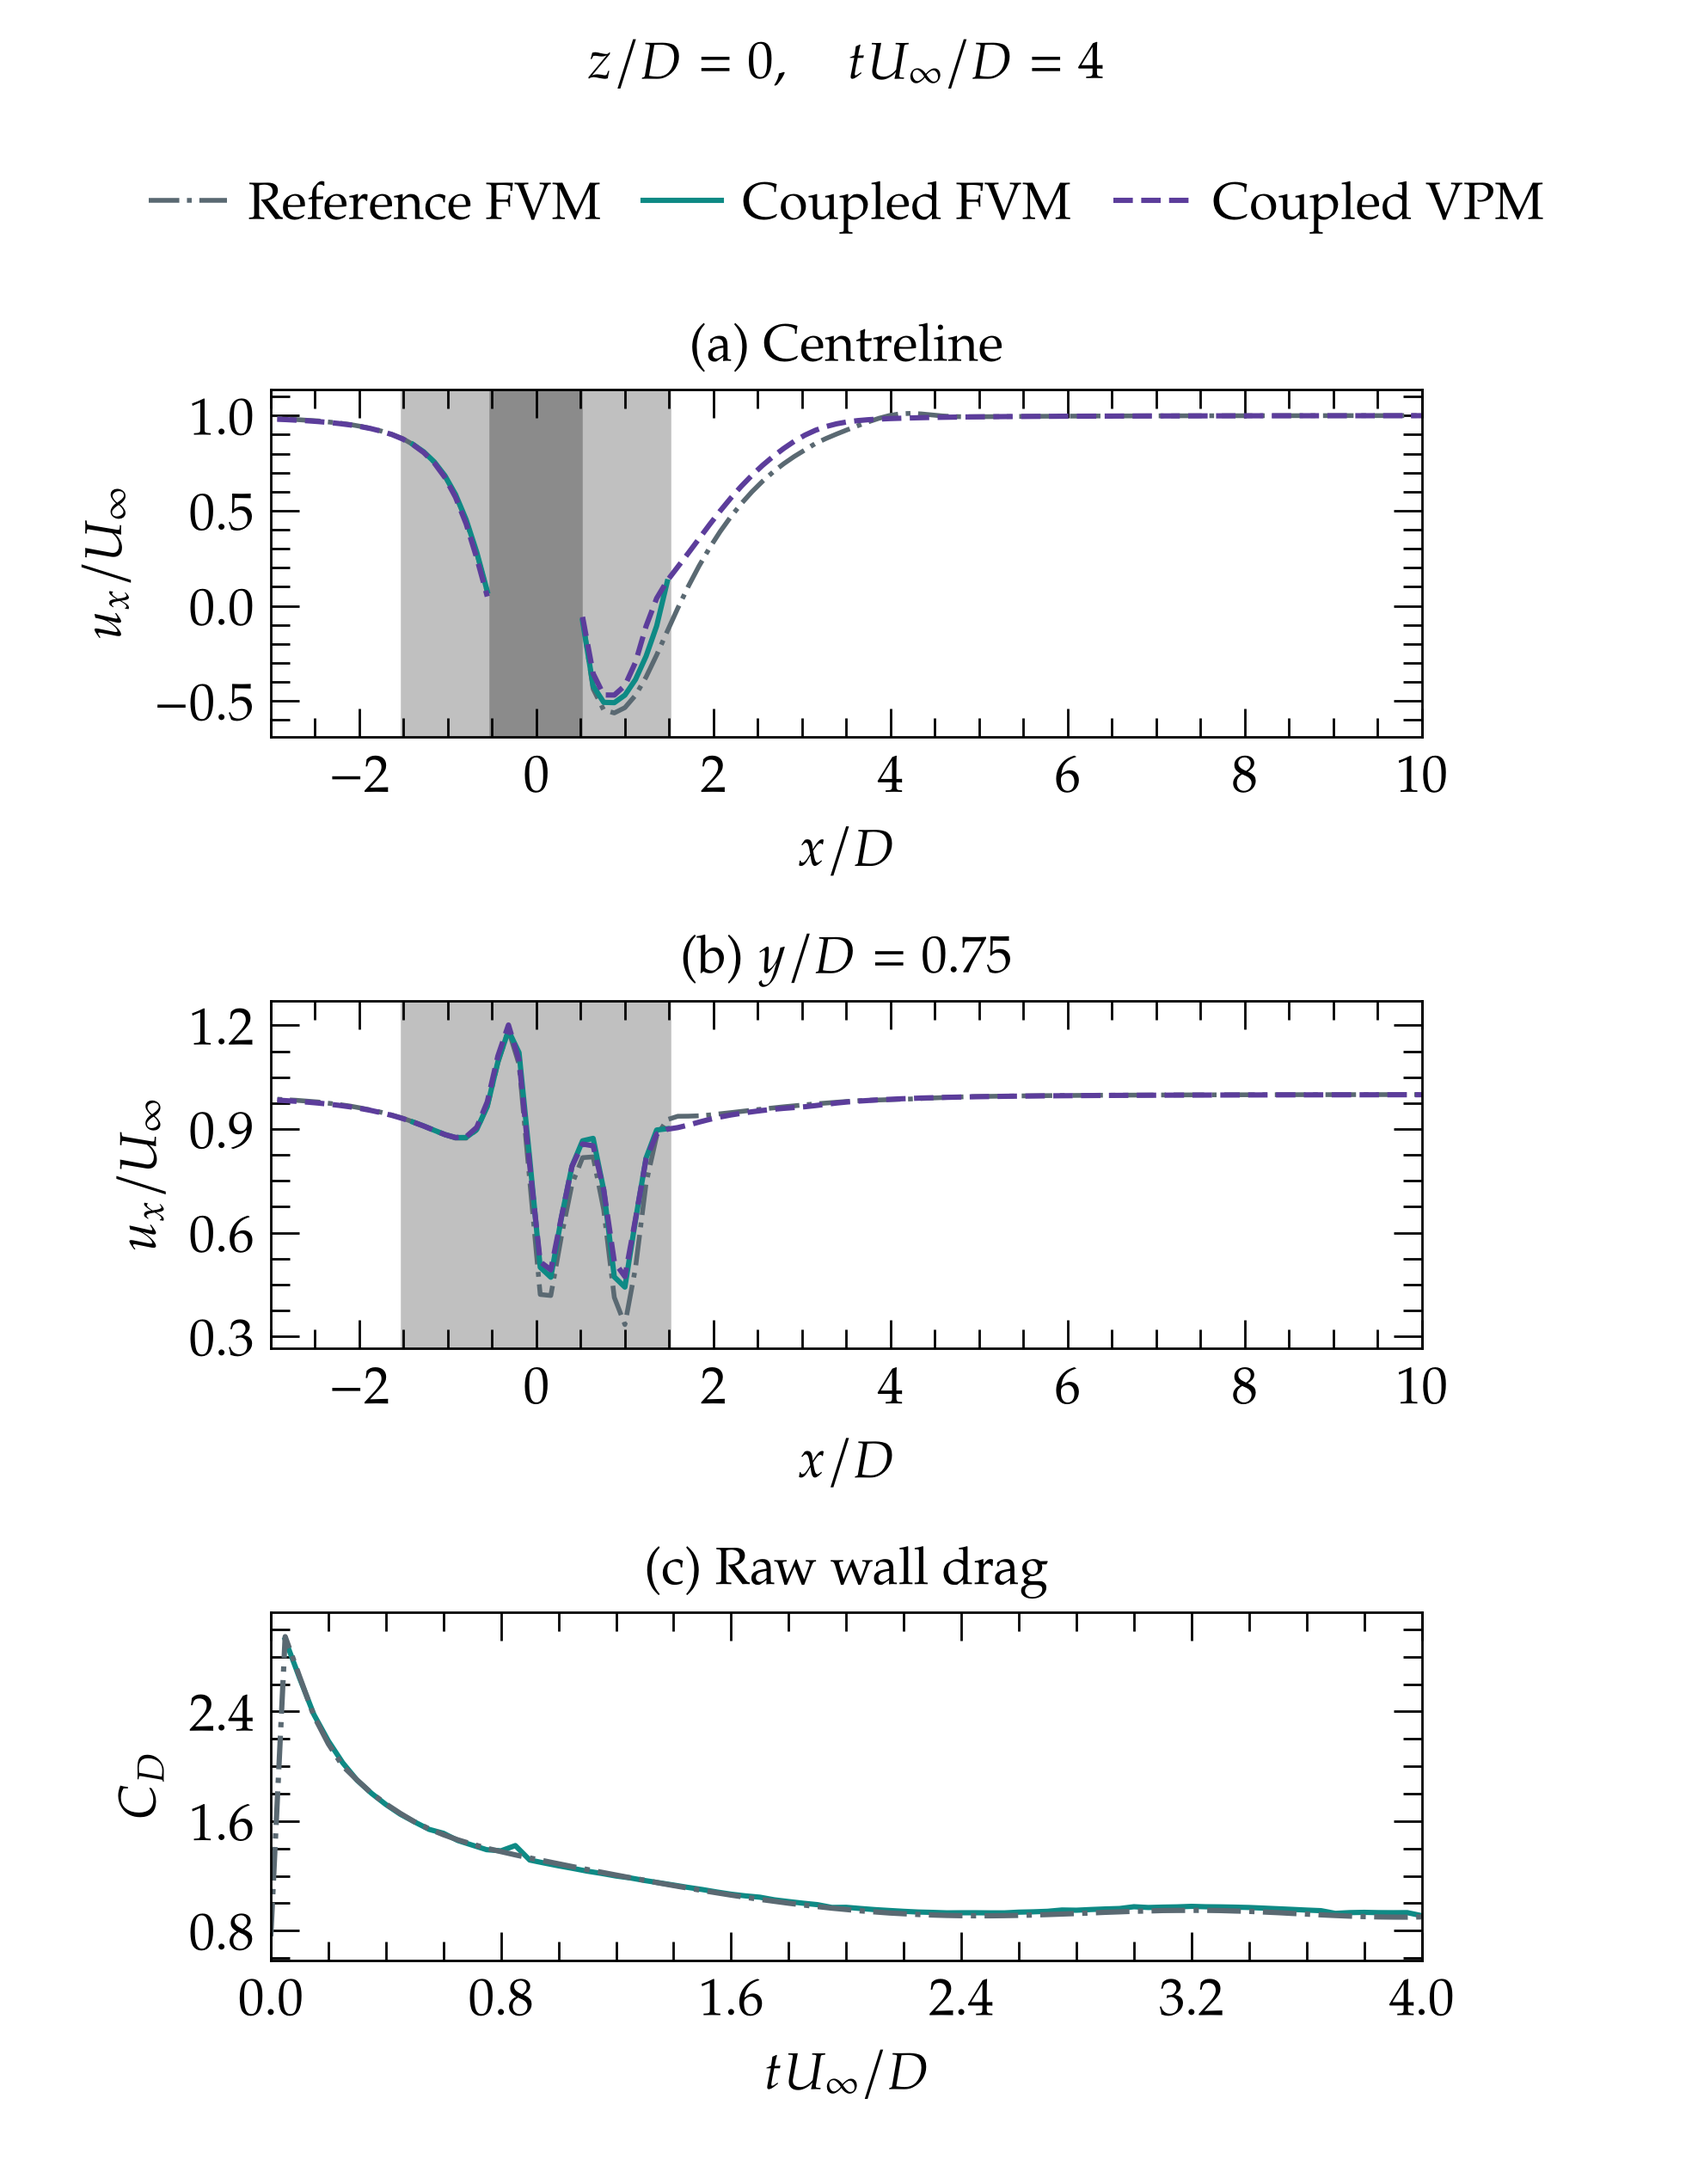
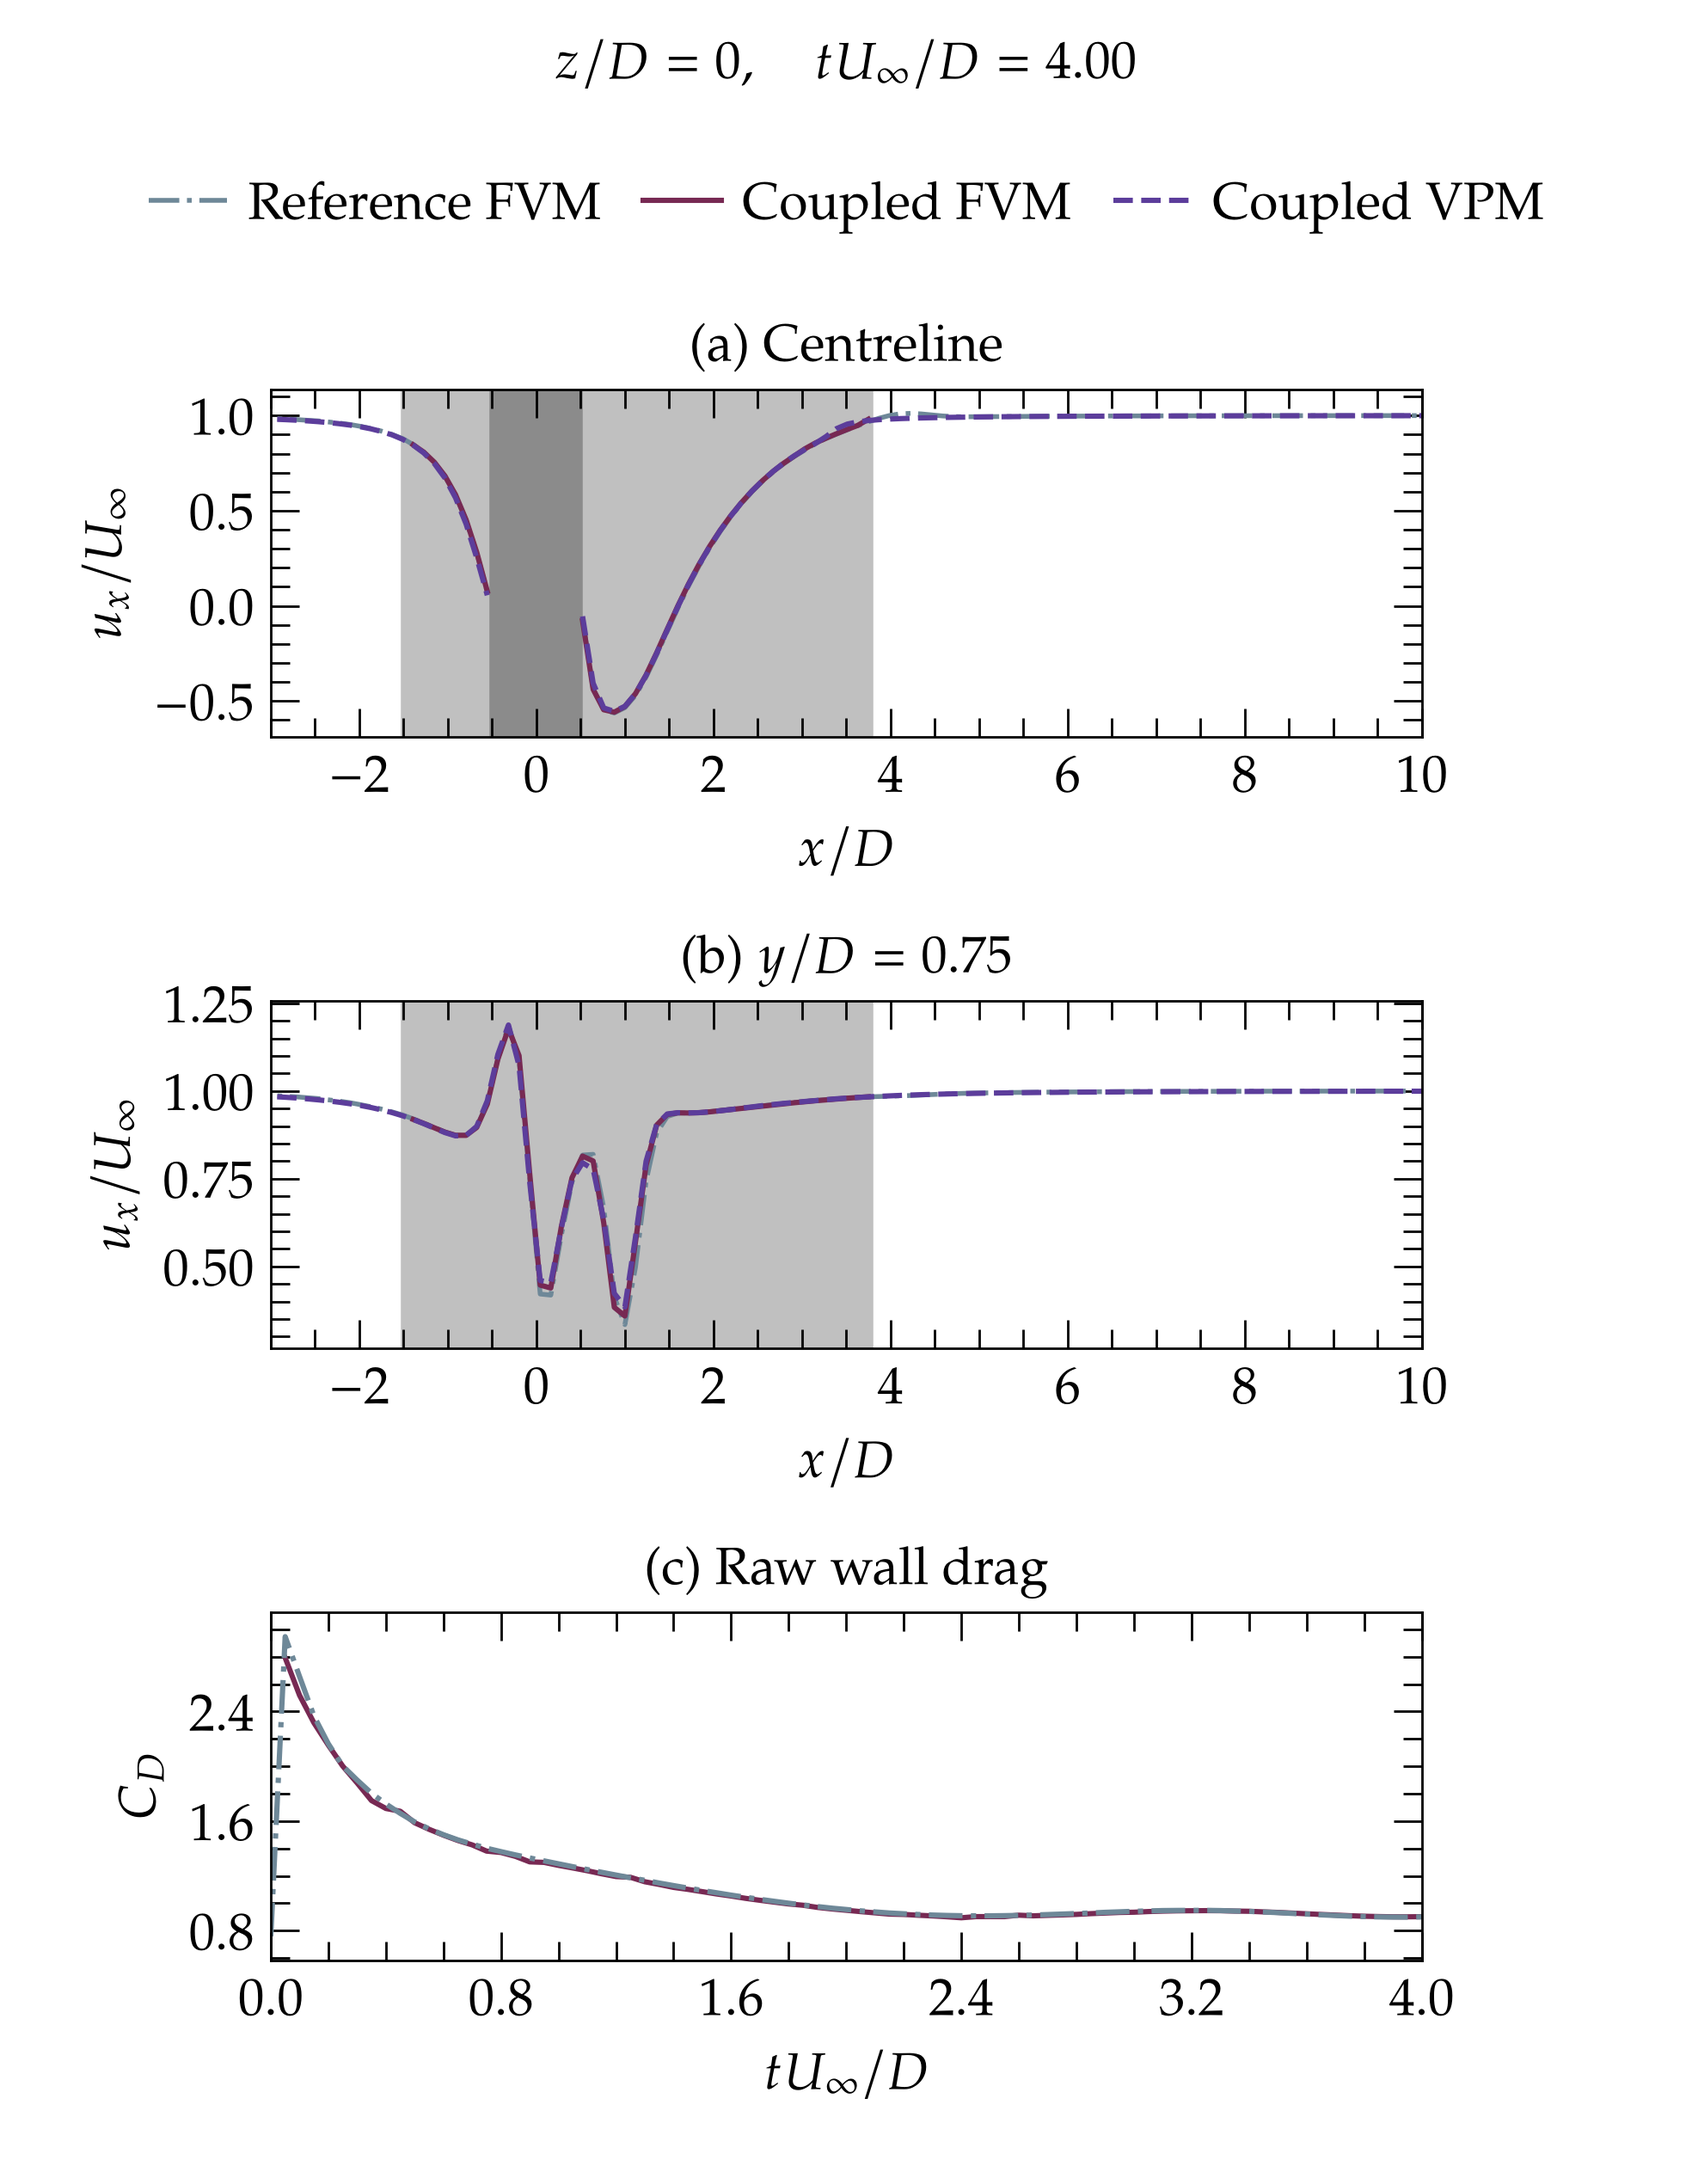
Compact cube comparison figures

diff --git a/tutorials/coupled_fvm_vpm/02_cube_flow/assets/plot_coupled_fvm_vpm_fields.py b/tutorials/coupled_fvm_vpm/02_cube_flow/assets/plot_coupled_fvm_vpm_fields.py
@@ -122,16 +122,22 @@ def _field_figure(
         low, high = low - 0.01, high + 0.01
     maximum = max(stats["sampled_max_percent"], 1e-6)
 
-    height_cm = 11.8
+    height_cm = 10.0
     fig = plt.figure(figsize=util.figure_size(height_cm), dpi=dpi)
     axes = [
-        fig.add_axes((0.14, 6.6 / height_cm, 0.30, 3.75 / height_cm)),
-        fig.add_axes((0.56, 6.6 / height_cm, 0.30, 3.75 / height_cm)),
-        fig.add_axes((0.14, 1.27 / height_cm, 0.30, 3.75 / height_cm)),
+        fig.add_axes((0.14, 5.3 / height_cm, 0.30, 3.75 / height_cm)),
+        fig.add_axes((0.56, 5.3 / height_cm, 0.30, 3.75 / height_cm)),
+        fig.add_axes((0.14, 0.9 / height_cm, 0.30, 3.75 / height_cm)),
     ]
-    velocity_bar = fig.add_axes((0.56, 4.3 / height_cm, 0.30, 0.26 / height_cm))
-    error_bar = fig.add_axes((0.56, 2.8 / height_cm, 0.30, 0.26 / height_cm))
-    fig.text(0.5, 0.977, rf"$z/D=0,\quad tU_\infty/D={time * time_scale:g}$", ha="center", va="top")
+    velocity_bar = fig.add_axes((0.56, 3.65 / height_cm, 0.30, 0.14 / height_cm))
+    error_bar = fig.add_axes((0.56, 2.25 / height_cm, 0.30, 0.14 / height_cm))
+    fig.text(
+        0.5,
+        0.975,
+        rf"$z/D=0,\quad tU_\infty/D={time * time_scale:.2f}$",
+        ha="center",
+        va="top",
+    )
     levels = np.linspace(low, high, 41)
     for ax, values, title in zip(axes[:2], (dense_left, dense_right), (left_title, right_title)):
         velocity_plot = ax.contourf(
@@ -162,13 +168,14 @@ def _field_figure(
             aspect="equal",
         )
         ax.set_facecolor(util.COLORS["background_light"])
+        ax.xaxis.labelpad = 1.0
         ax.add_patch(
             plt.Rectangle((-0.5, -0.5), 1, 1, facecolor="white", edgecolor="black", lw=0.5)
         )
     axes[0].set_ylabel(r"$y/D$")
     axes[2].set_ylabel(r"$y/D$")
     axes[1].tick_params(labelleft=False)
-    fig.colorbar(
+    velocity_colorbar = fig.colorbar(
         velocity_plot,
         cax=velocity_bar,
         orientation="horizontal",
@@ -176,7 +183,7 @@ def _field_figure(
         ticks=[low, (low + high) / 2, high],
         label=r"$u_x/U_\infty$",
     )
-    fig.colorbar(
+    error_colorbar = fig.colorbar(
         error_plot,
         cax=error_bar,
         orientation="horizontal",
@@ -184,9 +191,11 @@ def _field_figure(
         ticks=[0, maximum / 2, maximum],
         label=r"$\|\Delta\mathbf{u}\|/U_\infty$ [\%]",
     )
+    velocity_colorbar.ax.xaxis.labelpad = 1.0
+    error_colorbar.ax.xaxis.labelpad = 1.0
     fig.text(
         0.71,
-        1.2 / height_cm,
+        0.9 / height_cm,
         rf"RMS: {stats['rms_percent']:.2g}\%"
         "\n"
         rf"Max: {stats['sampled_max_percent']:.2g}\%",

diff --git a/tutorials/coupled_fvm_vpm/02_cube_flow/assets/postprocess.py b/tutorials/coupled_fvm_vpm/02_cube_flow/assets/postprocess.py
@@ -13,6 +13,7 @@ if not __package__:
     __package__ = case_package(_CasePath(__file__).resolve().parents[1]) + ".assets"
 
 import csv
+import argparse
 import hashlib
 import json
 import os
@@ -987,10 +988,9 @@ These are instantaneous sampled differences, not time-averaged error estimates.
 
 The largest saved reference Cd after t=1 within the compared interval is
 {peak["Cd"]:.9g} at t={peak["time"]:g} s, with accepted dt={peak["accepted_dt"]:.9g} s.
-reference_force_history.* shows raw Cd and the accepted timestep; the vertical
-line marks this sample. auxiliary/comparison_report.json records neighbouring pressure
-extrema where solver diagnostics are available. These are observations, not
-a completed diagnosis of the pressure/timestep algorithm.
+auxiliary/comparison_report.json records neighbouring pressure extrema where
+solver diagnostics are available. These are observations, not a completed
+diagnosis of the pressure/timestep algorithm.
 
 {observation}
 {verdict}
@@ -1020,8 +1020,18 @@ common support, auxiliary-field status and finite-reference limitations.
     print(verdict)
 
 
-def main() -> int:
+def main(arguments: list[str] | None = None) -> int:
     """Prepare and validate the matched data consumed by every cube plotter."""
+    parser = argparse.ArgumentParser(description=__doc__)
+    parser.add_argument(
+        "--report",
+        action="store_true",
+        help="write the comparison report after the field plotters have updated their metrics",
+    )
+    options = parser.parse_args([] if arguments is None else arguments)
+    if options.report:
+        write_comparison_report(build_comparison_report())
+        return 0
     try:
         count = prepare_comparison_fields()
     except (FileNotFoundError, ComparisonNotReady) as error:
@@ -1049,4 +1059,4 @@ def main() -> int:
 
 
 if __name__ == "__main__":
-    raise SystemExit(main())
+    raise SystemExit(main(sys.argv[1:]))

diff --git a/tutorials/coupled_fvm_vpm/02_cube_flow/assets/plot_velocity_profiles.py b/tutorials/coupled_fvm_vpm/02_cube_flow/assets/plot_velocity_profiles.py
@@ -96,7 +96,7 @@ def plot_frame(time, consts, figure_format="png", dpi=util.FIGURE_DPI):
     fig.text(
         0.5,
         0.982,
-        rf"$z/D=0,\quad tU_\infty/D={time * consts['freestream_speed']:g}$",
+        rf"$z/D=0,\quad tU_\infty/D={time * consts['freestream_speed']:.2f}$",
         ha="center",
         va="top",
     )

diff --git a/tutorials/coupled_fvm_vpm/02_cube_flow/figures/auxiliary/comparison_report.md b/tutorials/coupled_fvm_vpm/02_cube_flow/figures/auxiliary/comparison_report.md
@@ -1,7 +1,7 @@
 # Cube comparison report
 
 Reference: reference_flow/samples/fine/ and reference_flow/solution/fine/.
-Comparison ends at t=4 s. Reference data after
+Comparison ends at t=8 s. Reference data after
 this time are not used in the figures. No simulation was advanced by plotting.
 
 ## What is matched
@@ -55,13 +55,13 @@ region, where VPM is auxiliary. They are not whole-domain hybrid error maps.
 The line profiles include the sampled outer wake. A z=0 section of 3D fields
 does not establish accuracy everywhere in three dimensions.
 
-At the latest compared time, t=4 s:
+At the latest compared time, t=8 s:
 
 | Comparison | RMS [% U_inf] | Sampled max [% U_inf] | Area [D^2] |
 |---|---:|---:|---:|
-| Coupled FVM / VPM (overlap consistency) | 1.404 | 10.384 | 14.1120 |
-| Reference FVM / VPM (auxiliary overlap field) | 1.731 | 11.669 | 14.1120 |
-| Reference FVM / Coupled FVM (primary near field) | 0.910 | 7.458 | 14.1120 |
+| Coupled FVM / VPM (overlap consistency) | 1.345 | 10.205 | 14.1120 |
+| Reference FVM / VPM (auxiliary overlap field) | 1.810 | 10.394 | 14.1120 |
+| Reference FVM / Coupled FVM (primary near field) | 1.270 | 8.684 | 14.1120 |
 
 
 These are instantaneous sampled differences, not time-averaged error estimates.
@@ -70,10 +70,9 @@ These are instantaneous sampled differences, not time-averaged error estimates.
 
 The largest saved reference Cd after t=1 within the compared interval is
 1.2876943 at t=1 s, with accepted dt=0.01 s.
-reference_force_history.* shows raw Cd and the accepted timestep; the vertical
-line marks this sample. auxiliary/comparison_report.json records neighbouring pressure
-extrema where solver diagnostics are available. These are observations, not
-a completed diagnosis of the pressure/timestep algorithm.
+auxiliary/comparison_report.json records neighbouring pressure extrema where
+solver diagnostics are available. These are observations, not a completed
+diagnosis of the pressure/timestep algorithm.
 
 At this sample the pressure span increases by a factor of 0.999, and the timestep decreases by a factor of 1 relative to the preceding step.
 This diagnostic does not establish that the reference is converged or accurate.

diff --git a/tutorials/coupled_fvm_vpm/02_cube_flow/README.md b/tutorials/coupled_fvm_vpm/02_cube_flow/README.md
@@ -52,8 +52,7 @@ Missing fluid coverage stays masked, and colour scales include the full sampled 
 whole-domain hybrid error map.
 
 `figures/auxiliary/comparison_report.md`, `comparison_report.json` and the three field-comparison
-CSV files document the definitions, coverage and source checks. `reference_force_history.*` shows
-raw drag and the accepted timestep at each force sample. The
+CSV files document the definitions, coverage and source checks. The
 current fine reference has pressure/drag spikes coincident with very small timesteps; they remain
 visible, without smoothing or filtering. This needs resolution before its drag can validate hybrid
 accuracy. The schemes and local Cartesian sizing match, but fitted meshes and timestep histories
